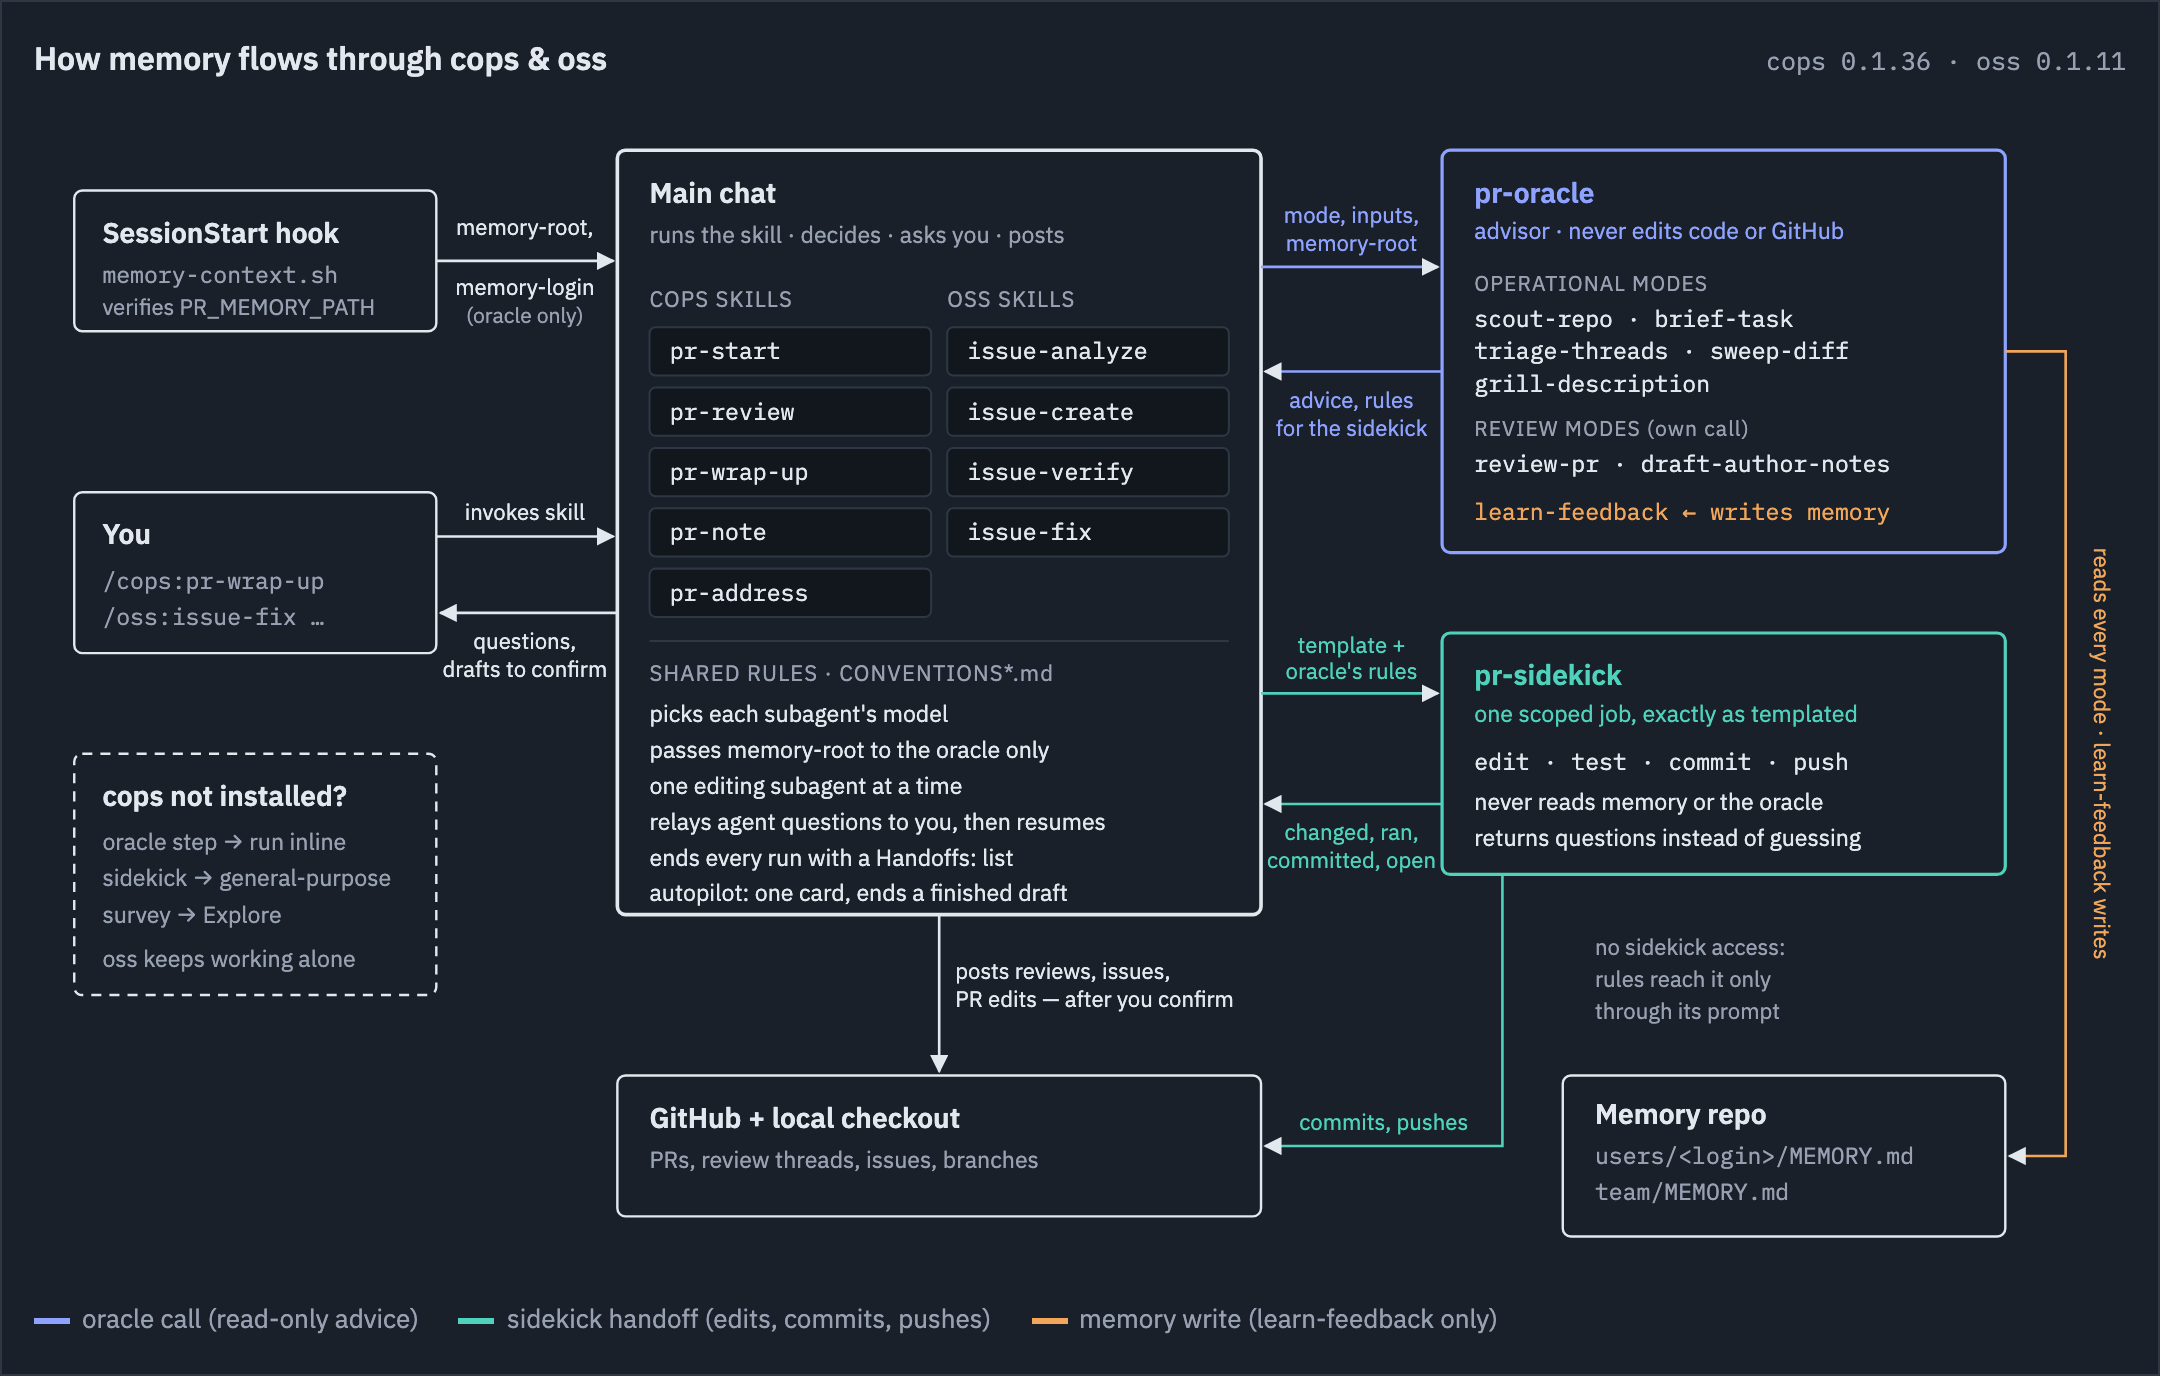
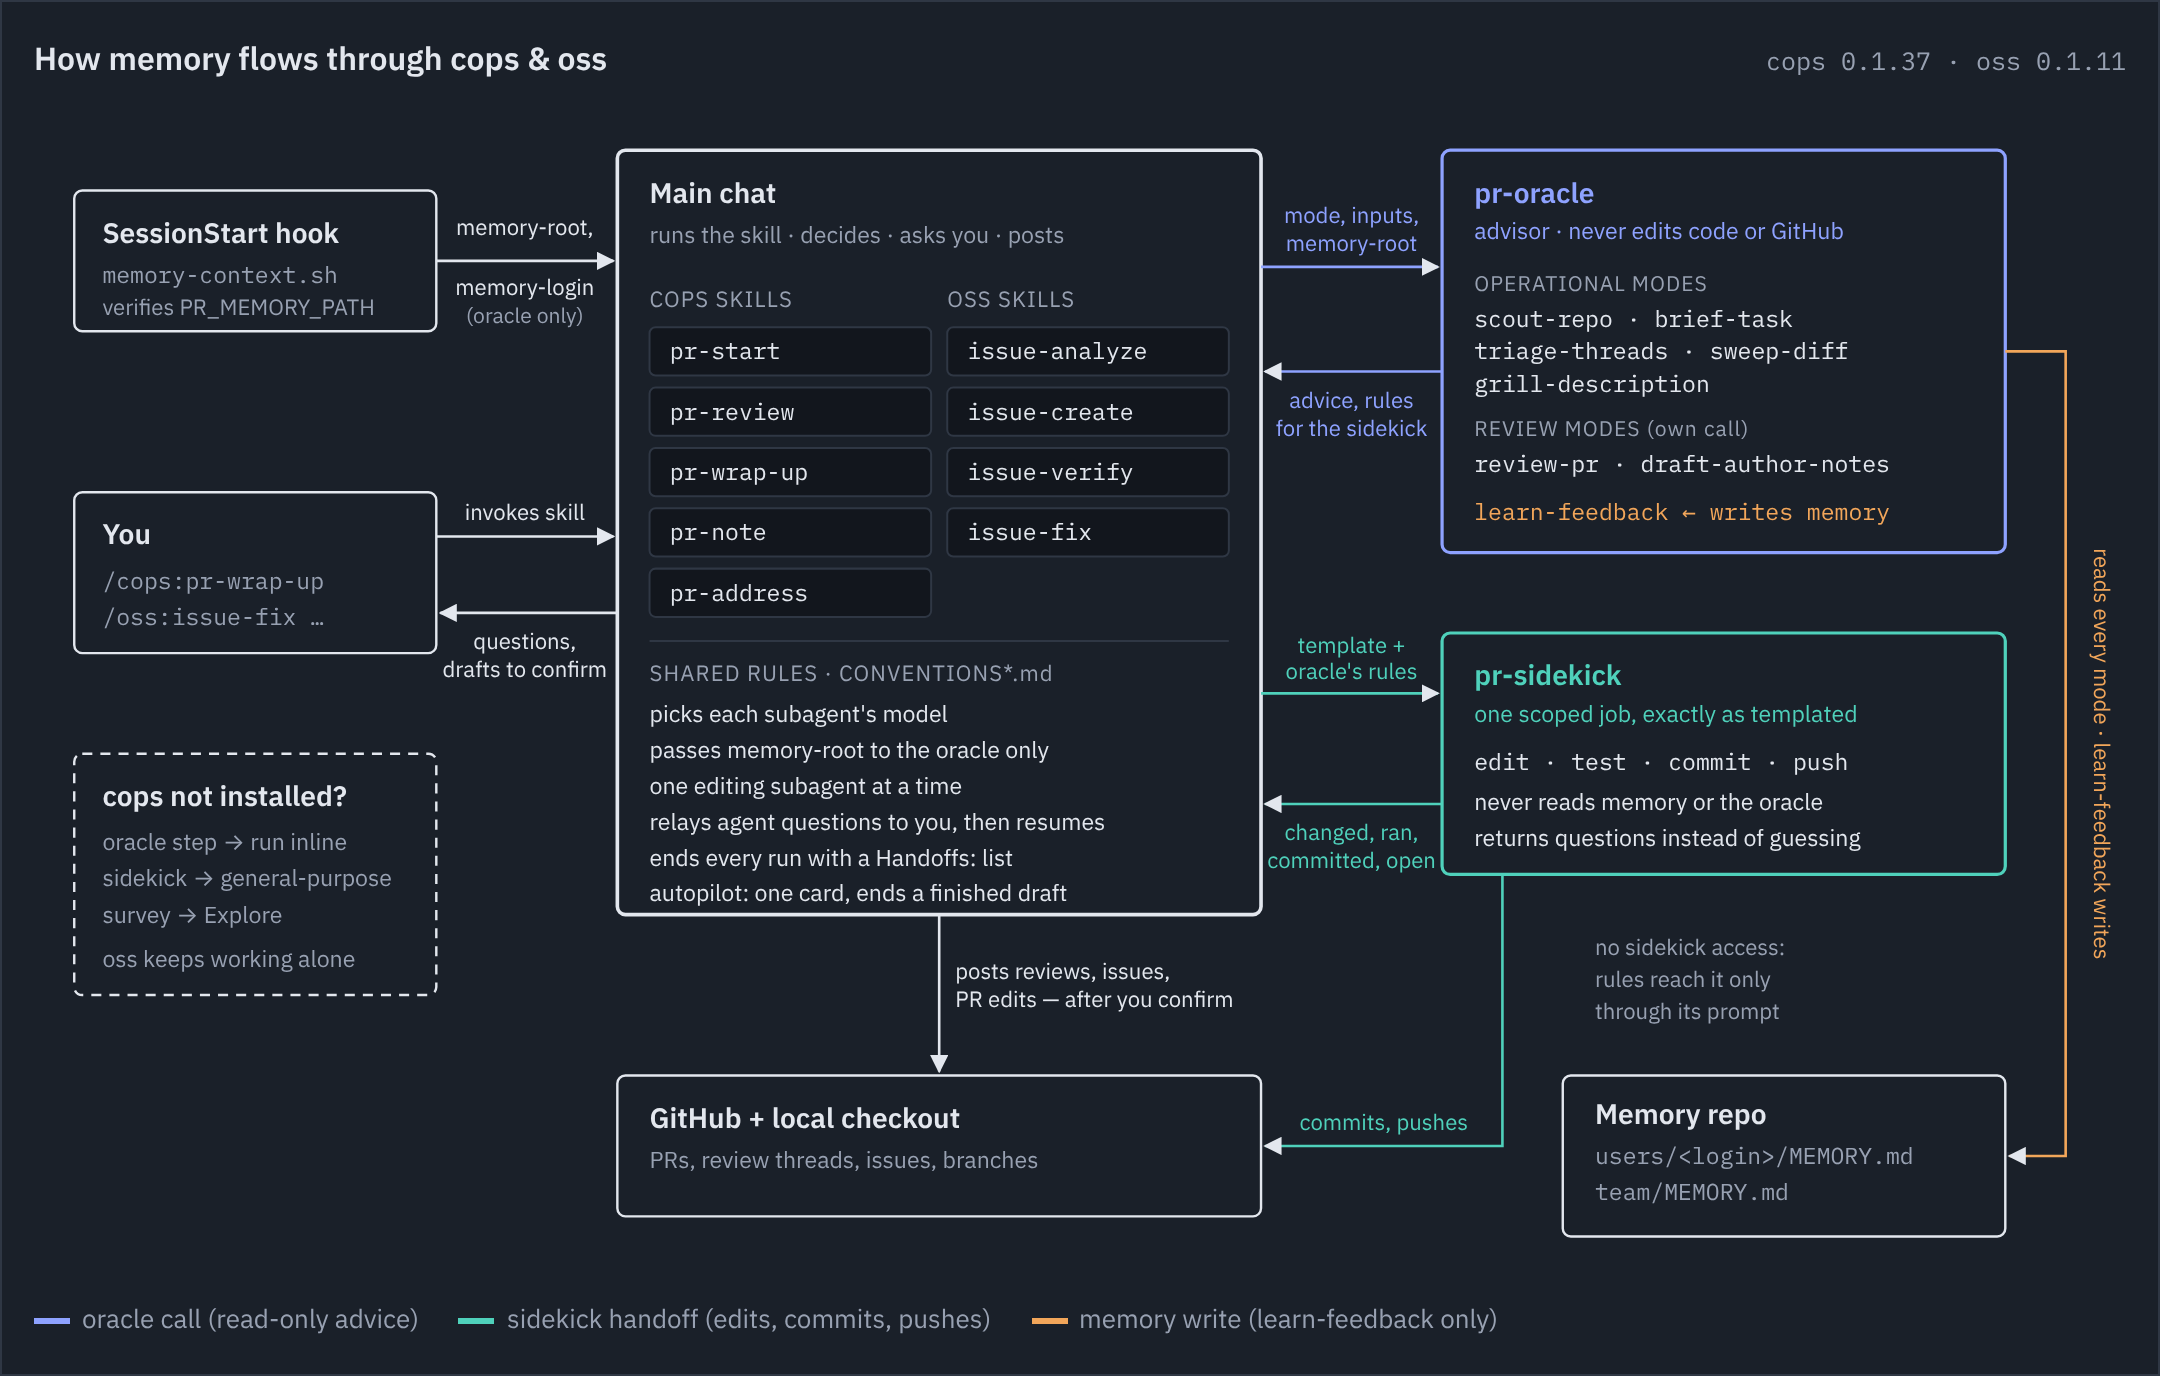
[cops] feat: make the autopilot PR label optional (#120)

diff --git a/docs/memory-flow.html b/docs/memory-flow.html
@@ -41,7 +41,7 @@ svg .w { color: var(--write); } svg .w text { fill: var(--write); }
 <figure>
   <header>
     <strong>How memory flows through cops &amp; oss</strong>
-    <span id="versions">cops 0.1.36 · oss 0.1.11</span>
+    <span id="versions">cops 0.1.37 · oss 0.1.11</span>
   </header>
   <svg viewBox="0 0 1040 580" role="img" aria-label="The main chat runs a cops or oss skill. It calls pr-oracle for read-only advice and pr-sidekick for edit, test, commit and push loops. A SessionStart hook injects the memory root. Only the oracle receives the memory root and reads the memory repo, and only its learn-feedback mode writes it. The sidekick gets remembered rules through its prompt.">
     <defs>

diff --git a/cops/README.md b/cops/README.md
@@ -21,11 +21,11 @@ Which skill fits depends on whose PR it is and where it is in review. In lifecyc
 `/cops:pr-start --autopilot <task>` carries one confirmed task card to a finished draft PR, assigned to you, without another prompt. Without the flag, the confirm screen offers it as a choice whenever the gate passes. The rules are in [`skills/pr-start/autopilot.md`](skills/pr-start/autopilot.md).
 
 - **Consent:** the task card is the only prompt. It lists every outward action it authorises: push, open PR, post review, push fixes, edit title and body, post notes, assign you. Marking the PR ready stays yours.
-- **Gate:** autopilot is not offered, and the normal run goes on, unless you have write access and the repo already has an `autopilot` label (the skill never creates it). Otherwise it is offered on every confirm screen, and the choice is yours: a Large size, a scope touching security or auth, data loss, infrastructure or a public API, or a Done when that is an observable behavior rather than a test or a command adds an advisory note to the card, such as `🤖 Autopilot: advisory` with a `Large` bullet, and blocks nothing; with no note the card shows no autopilot line.
-- **The run:** the fix loop and sweep as usual, then a draft PR with the `autopilot` label and a note box opening the body that says it was opened on autopilot, with an unticked `Approved by <you>` checkbox for you to tick once you've read it. Then four skills run in a fixed order, each as its own skill run: `pr-review` posts a self-review, `pr-address` handles its threads, `pr-wrap-up` rebases and refreshes the title and description, and `pr-note` posts notes on the final diff. Last, the PR is assigned to you and stays a draft; you mark it ready, with the pane's **Mark ready** button or `gh pr ready <number>`.
+- **Gate:** autopilot is not offered, and the normal run goes on, unless you have write access. Otherwise it is offered on every confirm screen, and the choice is yours: a Large size, a scope touching security or auth, data loss, infrastructure or a public API, or a Done when that is an observable behavior rather than a test or a command adds an advisory note to the card, such as `🤖 Autopilot: advisory` with a `Large` bullet, and blocks nothing; with no note the card shows no autopilot line.
+- **The run:** the fix loop and sweep as usual, then a draft PR with a note box opening the body that says it was opened on autopilot, with an unticked `Approved by <you>` checkbox for you to tick once you've read it. The PR also gets the `autopilot` label if the repo already has one; the label is optional and the skill never creates it. Then four skills run in a fixed order, each as its own skill run: `pr-review` posts a self-review, `pr-address` handles its threads, `pr-wrap-up` rebases and refreshes the title and description, and `pr-note` posts notes on the final diff. Last, the PR is assigned to you and stays a draft; you mark it ready, with the pane's **Mark ready** button or `gh pr ready <number>`.
 - **Self-review threads:** a `Question:` stays open for you; a `Suggestion:` is applied if low risk; a `Test:` adds the missing case; an `Issue:` is fixed test first if low risk, and stays open if critical. High-risk work is never automatic. Threads are never resolved, and a skipped one gets no reply.
 - **Stops:** any failure or subagent question ends the run; nothing is asked mid-run. The PR stays a draft, is assigned to you, and the report names the stage reached.
-- **Resume:** say "resume the rest with autopilot" (or type `/cops:pr-start --autopilot resume [<PR URL>]`) to continue a stopped run without another card; your own message is the consent. In the same conversation it picks up at the step that stopped. In a new one it resumes the chain on your open `autopilot`-labelled PR, skipping `pr-review` and `pr-note` when their signed posts exist; a run that stopped before the PR existed starts over with `/cops:pr-start`. A resume never opens a second PR. The rules are in [`skills/pr-start/resume.md`](skills/pr-start/resume.md).
+- **Resume:** say "resume the rest with autopilot" (or type `/cops:pr-start --autopilot resume [<PR URL>]`) to continue a stopped run without another card; your own message is the consent. In the same conversation it picks up at the step that stopped. In a new one it resumes the chain on your open autopilot PR, skipping `pr-review` and `pr-note` when their signed posts exist; a run that stopped before the PR existed starts over with `/cops:pr-start`. A resume never opens a second PR. The rules are in [`skills/pr-start/resume.md`](skills/pr-start/resume.md).
 - **Signatures:** autopilot posts carry the skill signature without `Approved:`, since you haven't seen the text.
 - **Bot tokens:** where `gh api user` doesn't return a person, pass your login as `--autopilot <login>`; without it the card asks for one.
 

diff --git a/cops/skills/pr-start/autopilot.md b/cops/skills/pr-start/autopilot.md
@@ -4,7 +4,7 @@ Read this at Step 1 when `--autopilot` was passed; otherwise at Step 3, before s
 
 ## Flag and login
 
-`--autopilot [<login>]` leads the command argument and is not part of the task. Passing it skips the offer and runs autopilot unless a gate check fails.
+`--autopilot [<login>]` leads the command argument and is not part of the task. Passing it skips the offer and runs autopilot unless the gate check fails.
 
 The run acts for one human, who is assigned the PR and named in `Approved-by:`:
 
@@ -13,23 +13,23 @@ The run acts for one human, who is assigned the PR and named in `Approved-by:`:
 
 Stage checks that compare the PR author with the authenticated login keep using the authenticated login.
 
-## Gate checks
+## Gate check
 
-Run these before the card; they only read. SKILL.md Step 1's own checks come first and stop the run as they always do.
+Run this before the card; it only reads, after SKILL.md Step 1's own checks.
 
 ```bash
 gh api repos/<owner>/<repo> --jq .permissions.push
-gh api repos/<owner>/<repo>/labels/autopilot --jq .name
 ```
 
 - **Write access:** `permissions.push` is `true`.
-- **Label:** the `autopilot` label exists; 404 → absent (MCP: `get_label`). Never create it.
 
-A failed check refuses autopilot: with the flag, say which check failed and offer the normal run; without the flag, the card shows `🤖 Autopilot: not offered — <failed gate>`. The normal run goes on from Step 2.
+The `autopilot` label is optional and never a gate.
+
+A failed check refuses autopilot: with the flag, say it failed and offer the normal run; without the flag, the card shows `🤖 Autopilot: not offered — <failed gate>`. The normal run goes on from Step 2.
 
 ## At the card
 
-When the gate checks pass, autopilot is offered, and choosing it is the user's call; the card shows no `Autopilot:` line unless a note applies. Each note is a bullet under `🤖 Autopilot: advisory`:
+When the gate check passes, autopilot is offered, and choosing it is the user's call; the card shows no `Autopilot:` line unless a note applies. Each note is a bullet under `🤖 Autopilot: advisory`:
 
 - `Large` when the Size is Large;
 - `high-risk scope (<area>)` when the scope touches security or auth, data loss, infrastructure or a public API;
@@ -60,7 +60,7 @@ A sweep flag that SKILL.md would bring to the user stops the run too.
 
 open-pr.md Step 6, with two additions:
 
-- After creating, `gh api -X POST repos/<owner>/<repo>/issues/<number>/labels -f 'labels[]=autopilot'` (MCP: `issue_write` `update` with `labels`).
+- After creating, add the `autopilot` label only if the repo already has it (`gh api repos/<owner>/<repo>/labels/autopilot --jq .name`; 404 → absent; MCP: `get_label`), with `gh api -X POST repos/<owner>/<repo>/issues/<number>/labels -f 'labels[]=autopilot'` (MCP: `issue_write` `update` with `labels`). Absent → skip it; never create the label.
 - The body file opens, above the template or `## Why`, with the banner:
 
   ```markdown

diff --git a/cops/skills/pr-start/open-pr.md b/cops/skills/pr-start/open-pr.md
@@ -11,7 +11,7 @@ gh api -X POST repos/<owner>/<repo>/pulls -F draft=true -f base=<default branch>
 rm "$d/pr-start-title.txt" "$d/pr-start-body.md"
 ```
 
-MCP route: `create_pull_request` with `draft: true` and the two files' contents. Autopilot adds its label and banner (autopilot.md).
+MCP route: `create_pull_request` with `draft: true` and the two files' contents. Autopilot adds its banner, and its label when the repo has one (autopilot.md).
 
 - **Title:** conventional prefix matching the branch type, imperative, net effect. Monorepo → `[package-name]` prefix (`CONVENTIONS-pr-metadata.md` → "Monorepo title prefix"). An issue in this repo → end with `(#123)` (`CONVENTIONS-pr-metadata.md` → "Trailing issue reference").
 - **Body:** fit the profile's template headers; otherwise the shared format (`CONVENTIONS-pr-metadata.md` → "PR body format"). Why carries the card's Why. Verification: Done when check and result (`CONVENTIONS-verification.md` → "Verification checklist"); scenarios → `### Before` then `### After` under it (`CONVENTIONS-verification.md` → "Before and After"), After `pending: run /cops:pr-wrap-up` each; evidence never holds the PR. Resources names the task source: an issue non-closing, `Relates to #123` or `Relates to owner/repo#123` (`CONVENTIONS-pr-metadata.md` → "Non-closing issue references"); a spec file or chat ask as a line. Write them to `d`, chosen first, per `CONVENTIONS-github.md` → "Passing drafted text to `gh`".

diff --git a/cops/skills/pr-start/resume.md b/cops/skills/pr-start/resume.md
@@ -20,7 +20,7 @@ The card confirmed earlier in this conversation stands. Continue from the step t
 
 ## In a new conversation
 
-Without the card, only the chain resumes. Pick the PR the user names, else the current branch's, and check it is open, labelled `autopilot`, and authored by the authenticated login. Another PR → stop and say why.
+Without the card, only the chain resumes. Pick the PR the user names, else the current branch's, and check it is open, opened on autopilot (its body opens with a `> [!NOTE]` block starting `Opened on autopilot by`, or it has the `autopilot` label), and authored by the authenticated login. Another PR → stop and say why.
 
 The run stopped before a PR existed → say the card is gone and point to starting `/cops:pr-start` again.
 
